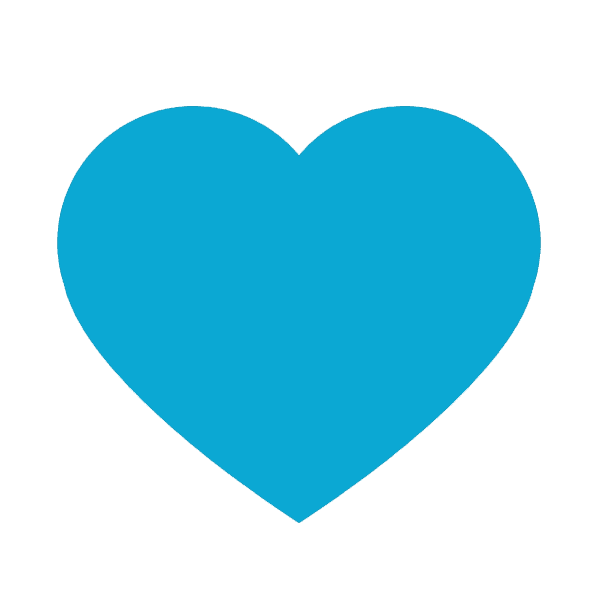
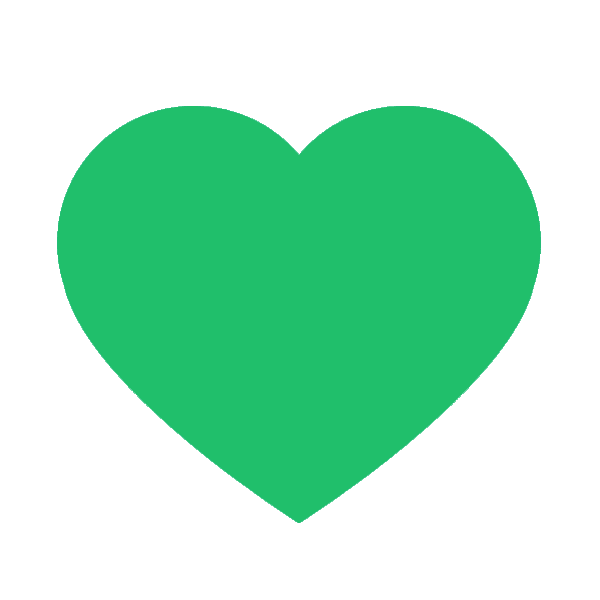
Index v1.3
Required users to input 4 images
Added Carousel
Changed Heart color to green
Adjustments to ui

diff --git a/styles.css b/styles.css
@@ -13,12 +13,13 @@ div {
     display: block;
 }
 
-.card {
-    
-    background-color: #ffffff;
-    
+a:hover{
+    cursor: pointer;
 }
 
+.card {
+    background-color: #ffffff;  
+}
 
 .full-div {
     position: absolute;
@@ -32,6 +33,20 @@ div {
     height: 100%;
     width: 100%;
     top: 0;
+}
+
+.matches-picture {
+    width:95%;
+    height:85vh;
+    object-fit:cover;
+    object-position:50% 50%;
+}
+
+.modal-picture{
+    width:100%;
+    height:50vh;
+    object-fit:cover;
+    object-position:50% 50%;
 }
 
 .profile-cover {

diff --git a/index.php b/index.php
@@ -179,10 +179,10 @@
             <button id="matches-toggle" type="button" class="btn btn-primary w-100">Matches</button>
           </div> 
           <!--START Users Conversations -->
-          <div id="conversations-div" class="conversations-list card-body" style="max-height:20rem; overflow-y:scroll"></div>
+          <div id="conversations-div" class="conversations-list card-body" style="max-height:20rem; overflow-y:scroll;"></div>
           <!--END -->
           <!--START Users Matches -->
-          <div id="matches-div" class="matches-list card-body" style="display:none; max-height:20rem; overflow-y:scroll"></div>
+          <div id="matches-div" class="matches-list card-body" style="display:none; max-height:20rem; overflow-y:scroll;"></div>
           <!--END -->
         </div>
       </div>
@@ -196,10 +196,36 @@
           <div class="row m-3" >
             <!-- Profile Pictures Start -->
             <div class="col-6">
-            <img src="" id="img1" class="profile-cover" alt="..." style="">
-            <img src="" id="img2" class="profile-cover" alt="..." style="">
-            <img src="" id="img3" class="profile-cover" alt="..." style="">
-            <img src="" id="img4" class="profile-cover" alt="..." style="">
+              <div id="carouselExampleIndicators" class="carousel slide" data-ride="carousel">
+                <ol class="carousel-indicators">
+                  <li data-target="#carouselExampleIndicators" data-slide-to="0" class="active"></li>
+                  <li data-target="#carouselExampleIndicators" data-slide-to="1"></li>
+                  <li data-target="#carouselExampleIndicators" data-slide-to="2"></li>
+                  <li data-target="#carouselExampleIndicators" data-slide-to="3"></li>
+                </ol>
+                <div class="carousel-inner">
+                  <div class="carousel-item active">
+                    <img src="" id="img1" class="matches-picture" alt="..." >
+                  </div>
+                  <div class="carousel-item">
+                    <img src="" id="img2" class="matches-picture" alt="..." >
+                  </div>
+                  <div class="carousel-item">
+                    <img src="" id="img3" class="matches-picture" alt="..." >
+                  </div>
+                  <div class="carousel-item">
+                    <img src="" id="img4" class="matches-picture" alt="..." >
+                  </div>
+                </div>
+                <a class="carousel-control-prev" href="#carouselExampleIndicators" role="button" data-slide="prev">
+                  <span class="carousel-control-prev-icon" aria-hidden="true"></span>
+                  <span class="sr-only">Previous</span>
+                </a>
+                <a class="carousel-control-next" href="#carouselExampleIndicators" role="button" data-slide="next">
+                  <span class="carousel-control-next-icon" aria-hidden="true"></span>
+                  <span class="sr-only">Next</span>
+                </a>
+              </div>
             </div>
             <!-- Profile Pictures End -->
             <!-- Profile Info Start -->
@@ -231,29 +257,58 @@
       <!-- RIGHT PANEL END --> 
 
     <!-- Modal -->
-    <div class="modal fade" id="matchesModal" tabindex="-1">
-      <div class="modal-dialog">
+    <div class="modal" tabindex="-1" id="matchesModal" role="dialog">
+      <div class="modal-dialog" role="document">
         <div class="modal-content">
-        <div class="modal-header">
-          <h5 class="modal-title" id="person-name-modal">MissingNO</h5>
-          <button type="button" class="btn-close" data-bs-dismiss="modal" aria-label="Close"></button>
-        </div>
-        <img src="" id="mimg1" class="profile-cover" alt="..." style="">
-        <img src="" id="mimg2" class="profile-cover" alt="..." style="">
-        <img src="" id="mimg3" class="profile-cover" alt="..." style="">
-        <img src="" id="mimg4" class="profile-cover" alt="..." style="">
-        <div class="modal-body" id="description-modal">
-        ???
-        </div>
-        <div class="modal-footer">
-        <form name="form" method="POST" action="index.php">
-          <input type="submit" value="PASS" name="passBtn1" href="#" onclick="passUser(1)">
-          <input type="submit" value="SMASH" name="smashBtn1" href="#" onclick="smashUser(1)">
-        </form>
-        </div>
+          <div class="modal-header">
+            <h5 class="modal-title" id="person-name-modal">MissingNO</h5>
+            <button type="button" class="close" data-bs-dismiss="modal" aria-label="Close">
+              <span aria-hidden="true">&times;</span>
+            </button>
+          </div>
+          <div class="modal-body">
+            <div id="modalcarousel" class="carousel slide" data-ride="carousel">
+                <ol class="carousel-indicators">
+                  <li data-target="#modalcarousel" data-slide-to="0" class="active"></li>
+                  <li data-target="#modalcarousel" data-slide-to="1"></li>
+                  <li data-target="#modalcarousel" data-slide-to="2"></li>
+                  <li data-target="#modalcarousel" data-slide-to="3"></li>
+                </ol>
+                <div class="carousel-inner">
+                  <div class="carousel-item active">
+                    <img src="" id="mimg1" class="modal-picture" alt="..." style="">
+                  </div>
+                  <div class="carousel-item">
+                    <img src="" id="mimg2" class="modal-picture" alt="..." style="">
+                  </div>
+                  <div class="carousel-item">
+                    <img src="" id="mimg3" class="modal-picture" alt="..." style="">
+                  </div>
+                  <div class="carousel-item">
+                    <img src="" id="mimg4" class="modal-picture" alt="..." style="">
+                  </div>
+                </div>
+                <a class="carousel-control-prev" href="#modalcarousel" role="button" data-slide="prev">
+                  <span class="carousel-control-prev-icon" aria-hidden="true"></span>
+                  <span class="sr-only">Previous</span>
+                </a>
+                <a class="carousel-control-next" href="#modalcarousel" role="button" data-slide="next">
+                  <span class="carousel-control-next-icon" aria-hidden="true"></span>
+                  <span class="sr-only">Next</span>
+                </a>
+            </div>
+            <br>  
+            <p id="description-modal">???</p>
+          </div>
+          <div class="modal-footer">
+              <form name="form" method="POST" action="index.php">
+                <input type="submit" class="btn btn-danger"  value="Delete" name="passBtn1" href="#" onclick="passUser(1)">
+                <input type="submit" class="btn btn-success" value="Confirm" name="smashBtn1" href="#" onclick="smashUser(1)">
+              </form>
+          </div>
         </div>
       </div>
-    </div> 
+    </div>
     <!-- MODAL END -->
 
     </div>
@@ -338,8 +393,8 @@
               currFlag += 1;
             }
             document.getElementById('person-name').innerHTML = currData[currFlag]['pub_name'];
-            document.getElementById('person-age').innerHTML = currData[currflag]['pub_age'];
-            document.getElementById('person-sex').innerHTML = currData[currflag]['pub_sex'];
+            document.getElementById('person-age').innerHTML = currData[currFlag]['pub_age'];
+            document.getElementById('person-sex').innerHTML = currData[currFlag]['pub_sex'];
             document.getElementById('description').innerHTML = currData[currFlag]['pub_desc'];
             var arr = currData[currFlag]['pub_img'].split(',');
             img1.src = 'images/' + arr[0];
@@ -371,8 +426,8 @@
               currFlag += 1;
             }
             document.getElementById('person-name').innerHTML = currData[currFlag]['pub_name'];
-            document.getElementById('person-age').innerHTML = currData[currflag]['pub_age'];
-            document.getElementById('person-sex').innerHTML = currData[currflag]['pub_sex'];
+            document.getElementById('person-age').innerHTML = currData[currFlag]['pub_age'];
+            document.getElementById('person-sex').innerHTML = currData[currFlag]['pub_sex'];
             document.getElementById('description').innerHTML = currData[currFlag]['pub_desc'];
             var arr = currData[currFlag]['pub_img'].split(',');
             img1.src = 'images/' + arr[0];

diff --git a/register.php b/register.php
@@ -67,23 +67,23 @@
                         <div class="card-body">
                         <form name="register" method="post" enctype="multipart/form-data">
                         <h3>Welcome, <?php echo $_SESSION['name'];?><br></h3>
-                        <p>To get started, please upload at least one (1) picture.</p>
+                        <p>To get started, please upload four (4) pictures.</p>
                         <hr>
                         <div class="btn btn-outline-secondary btn-rounded m-2">
                         <img class="profile-cover" src="images\addImage.png" id="profileImage" style="width:200px;">
-                        <input class="d-none" type="file" name="img[]" id="imageUpload" accept="image/*"  required>
+                        <input class="d-none" type="file" name="img[]" id="imageUpload" accept="image/*"  onchange="success()" required>
                         </div>
                         <div class="btn btn-outline-secondary btn-rounded m-2">
                         <img  class="profile-cover" src="images\addImage.png" id="profileImage2" style="width:200px;">
-                        <input class="d-none" type="file" name="img[]" id="imageUpload2" accept="image/*">
+                        <input class="d-none" type="file" name="img[]" id="imageUpload2" accept="image/*" onchange="success()" required>
                         </div> <br>
                         <div class="btn btn-outline-secondary btn-rounded m-2">
                         <img  src="images\addImage.png" id="profileImage3" style="width:200px;">
-                        <input class="d-none" type="file" name="img[]" id="imageUpload3" accept="image/*">
+                        <input class="d-none" type="file" name="img[]" id="imageUpload3" accept="image/*" onchange="success()" required>
                         </div>
                         <div class="btn btn-outline-secondary btn-rounded m-2">
                         <img src="images\addImage.png" id="profileImage4" style="width:200px;">
-                        <input class="d-none" type="file" name="img[]" id="imageUpload4" accept="image/*">
+                        <input class="d-none" type="file" name="img[]" id="imageUpload4" accept="image/*" onchange="success()" required>
                         </div>
                         <p>  Bio: <input type="text" name="bio" required><br></p>
                         <div class="m-1">
@@ -93,7 +93,7 @@
                         </select>
                         </div>
                         Age: <input type="number"  name="age" min="18" max="100" required><br>
-                        <input type="submit" class="btn btn-primary btn-rounded m-3" name="saveButton" value="SAVE">
+                        <input type="submit" class="btn btn-primary btn-rounded m-3" name="saveButton" id="saveBTN" value="SAVE" disabled>
                     </form>
                         </div>
                 </div>  
@@ -101,6 +101,16 @@
         <script src="https://cdn.jsdelivr.net/npm/bootstrap@5.1.3/dist/js/bootstrap.bundle.min.js" integrity="sha384-ka7Sk0Gln4gmtz2MlQnikT1wXgYsOg+OMhuP+IlRH9sENBO0LRn5q+8nbTov4+1p" crossorigin="anonymous"></script>
         <script src="https://ajax.googleapis.com/ajax/libs/jquery/2.1.1/jquery.min.js"></script>
         <script>
+          //FUNCTION FOR BUTTON DISABLE IF REQ NOT MET
+          function success() {
+	        if ((document.getElementById("imageUpload").value==="") || (document.getElementById("imageUpload2").value==="") ||
+                (document.getElementById("imageUpload3").value==="") || (document.getElementById("imageUpload4").value==="")
+                ) {
+                document.getElementById('saveBTN').disabled = true;
+            } else {
+                document.getElementById('saveBTN').disabled = false;
+            }
+        }
           //FUNCTION FOR IMAGE UPLOAD
 
           $("#profileImage").click(function(e) {

diff --git a/matches.php b/matches.php
@@ -29,22 +29,26 @@
                         $imageArray = explode(',', $row3['pub_img']);
                     }
                 }
-                $output .= '<a onclick="matchClicked('.$counter.')" data-bs-toggle="modal" data-bs-target="#matchesModal">
-                                <div class="row align-items-center mb-3">
-                                    <div class="col-4">
-                                        <span class="img-responsive">
-                                            <img class="img-fluid rounded-circle z-depth-2" alt="" src="images/' . $imageArray[0] . '" data-holder-rendered="true">
-                                        </span>
-                                    </div>
-                                    <div class="col-8">  
-                                        <input type="hidden" id="matchesEmail'.$counter.'" value="'. $matchedUserEmail .'">
-                                        <input type="hidden" id="matchesPublicName'.$counter.'" value="'. $publicName .'">
-                                        <input type="hidden" id="matchesPublicImage'.$counter.'" value="'. $row3['pub_img'] .'">
-                                        <input type="hidden" id="matchesPublicDesc'.$counter.'" value="'. $publicDesc .'">
-                                        <h4 class="h4">'. $row2['first_name'] .'</h4>
-                                    </div>
-                                </div>
-                            </a>';
+                
+                $output .= '
+                <div class="">
+                <a onclick="matchClicked('.$counter.')" data-bs-toggle="modal" data-bs-target="#matchesModal">
+                    <div class="row align-items-center mb-3">
+                        <div class="col-4">
+                            <span class="img-responsive">
+                                <img class="img-fluid rounded-circle z-depth-2" alt="" src="images/' . $imageArray[0] . '" data-holder-rendered="true">
+                            </span>
+                        </div>
+                        <div class="col-8">  
+                            <input type="hidden" id="matchesEmail'.$counter.'" value="'. $matchedUserEmail .'">
+                            <input type="hidden" id="matchesPublicName'.$counter.'" value="'. $publicName .'">
+                            <input type="hidden" id="matchesPublicImage'.$counter.'" value="'. $row3['pub_img'] .'">
+                            <input type="hidden" id="matchesPublicDesc'.$counter.'" value="'. $publicDesc .'">
+                            <h4 class="h4">'. $row2['first_name'] .'</h4>
+                        </div>
+                    </div>
+                </a>
+                </div>';
                 $counter++;
             }
         }
